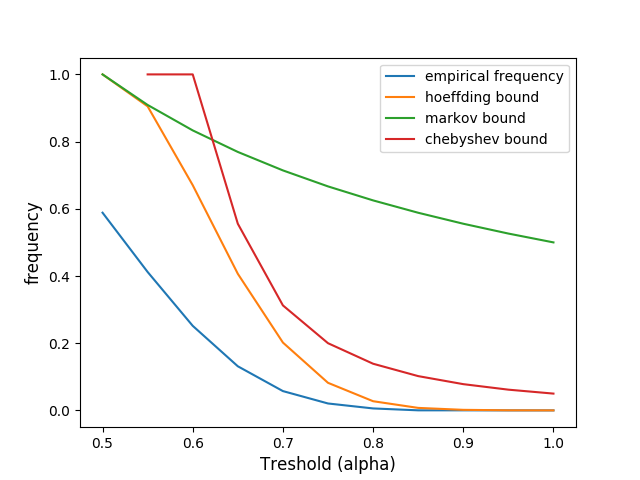
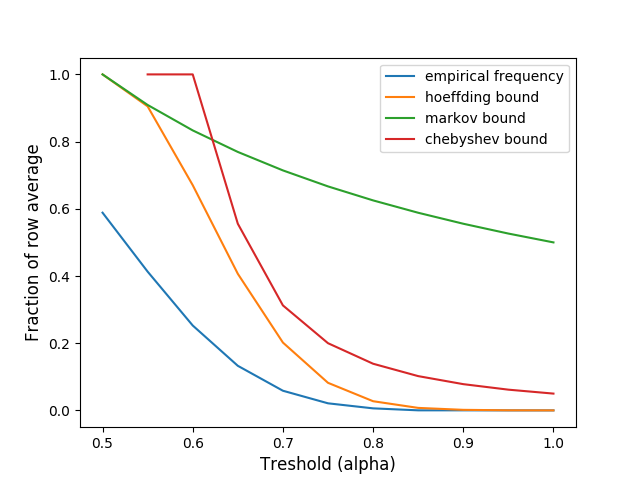
ass2 nearly finished

diff --git a/Assignments/assignment2/code/assignment2.py b/Assignments/assignment2/code/assignment2.py
@@ -2,7 +2,7 @@ import numpy as np
 import pandas as pd
 import matplotlib.pyplot as plt
 import scipy as scp
-import scipy.linalg as lalg
+from sklearn.linear_model import LogisticRegression
 
 ###
 # Exercise 1
@@ -58,7 +58,7 @@ def chebychev_bound(mu, alpha, n) :
 freqs['hoeffding_bound'] = freqs['mean'].apply(lambda x : hoeffding_bound(bias, x, n))
 freqs['markov_bound'] = freqs['mean'].apply(lambda x : markov_bound(bias, x))
 freqs['chebychev_bound'] = freqs['mean'].apply(lambda x : chebychev_bound(bias, x, n))
-freqs = freqs[freqs['mean']>=0.49]
+freqs = freqs[freqs['mean']>=0.5]
 
 print(freqs['hoeffding_bound'])
 print(freqs['markov_bound'])
@@ -70,7 +70,7 @@ plt.plot(freqs['mean'], freqs['hoeffding_bound'], label = 'hoeffding bound')
 plt.plot(freqs['mean'], freqs['markov_bound'], label = 'markov bound')
 plt.plot(freqs['mean'], freqs['chebychev_bound'], label = 'chebyshev bound')
 plt.xlabel('Treshold (alpha)', fontsize = 'large')
-plt.ylabel('frequency', fontsize = 'large')
+plt.ylabel('Fraction of row average', fontsize = 'large')
 plt.legend()
 plt.savefig('ex1.png')
 
@@ -79,6 +79,7 @@ print("hoeffding 1")
 print(hoeffding_bound(0.5,1,20))
 print("hoeffding 0.95")
 print(hoeffding_bound(0.5,0.95,20))
+
 ###
 # Excercise 3
 ###
@@ -106,8 +107,8 @@ train_set.columns = ['length', 'width', 'label']
 test_set.columns = ['length', 'width', 'label']
 
 # remove class 2 from test and train set
-train_set = train_set.loc[train_set.species != 2, :]
-test_set = test_set.loc[test_set.species != 2, :]
+train_set = train_set.loc[train_set.label != 2, :]
+test_set = test_set.loc[test_set.label != 2, :]
 
 # Size 62/ 26
 

diff --git a/Assignments/assignment2/very_practical/very_practical.tex b/Assignments/assignment2/very_practical/very_practical.tex
@@ -1,3 +1,8 @@
 \subsection{markov}
 -
-\subsection{}
+\subsection{Chebyshev}
+-
+\subsection{Hoeffding}
+-
+\subsection{Non-vacuous}
+-
